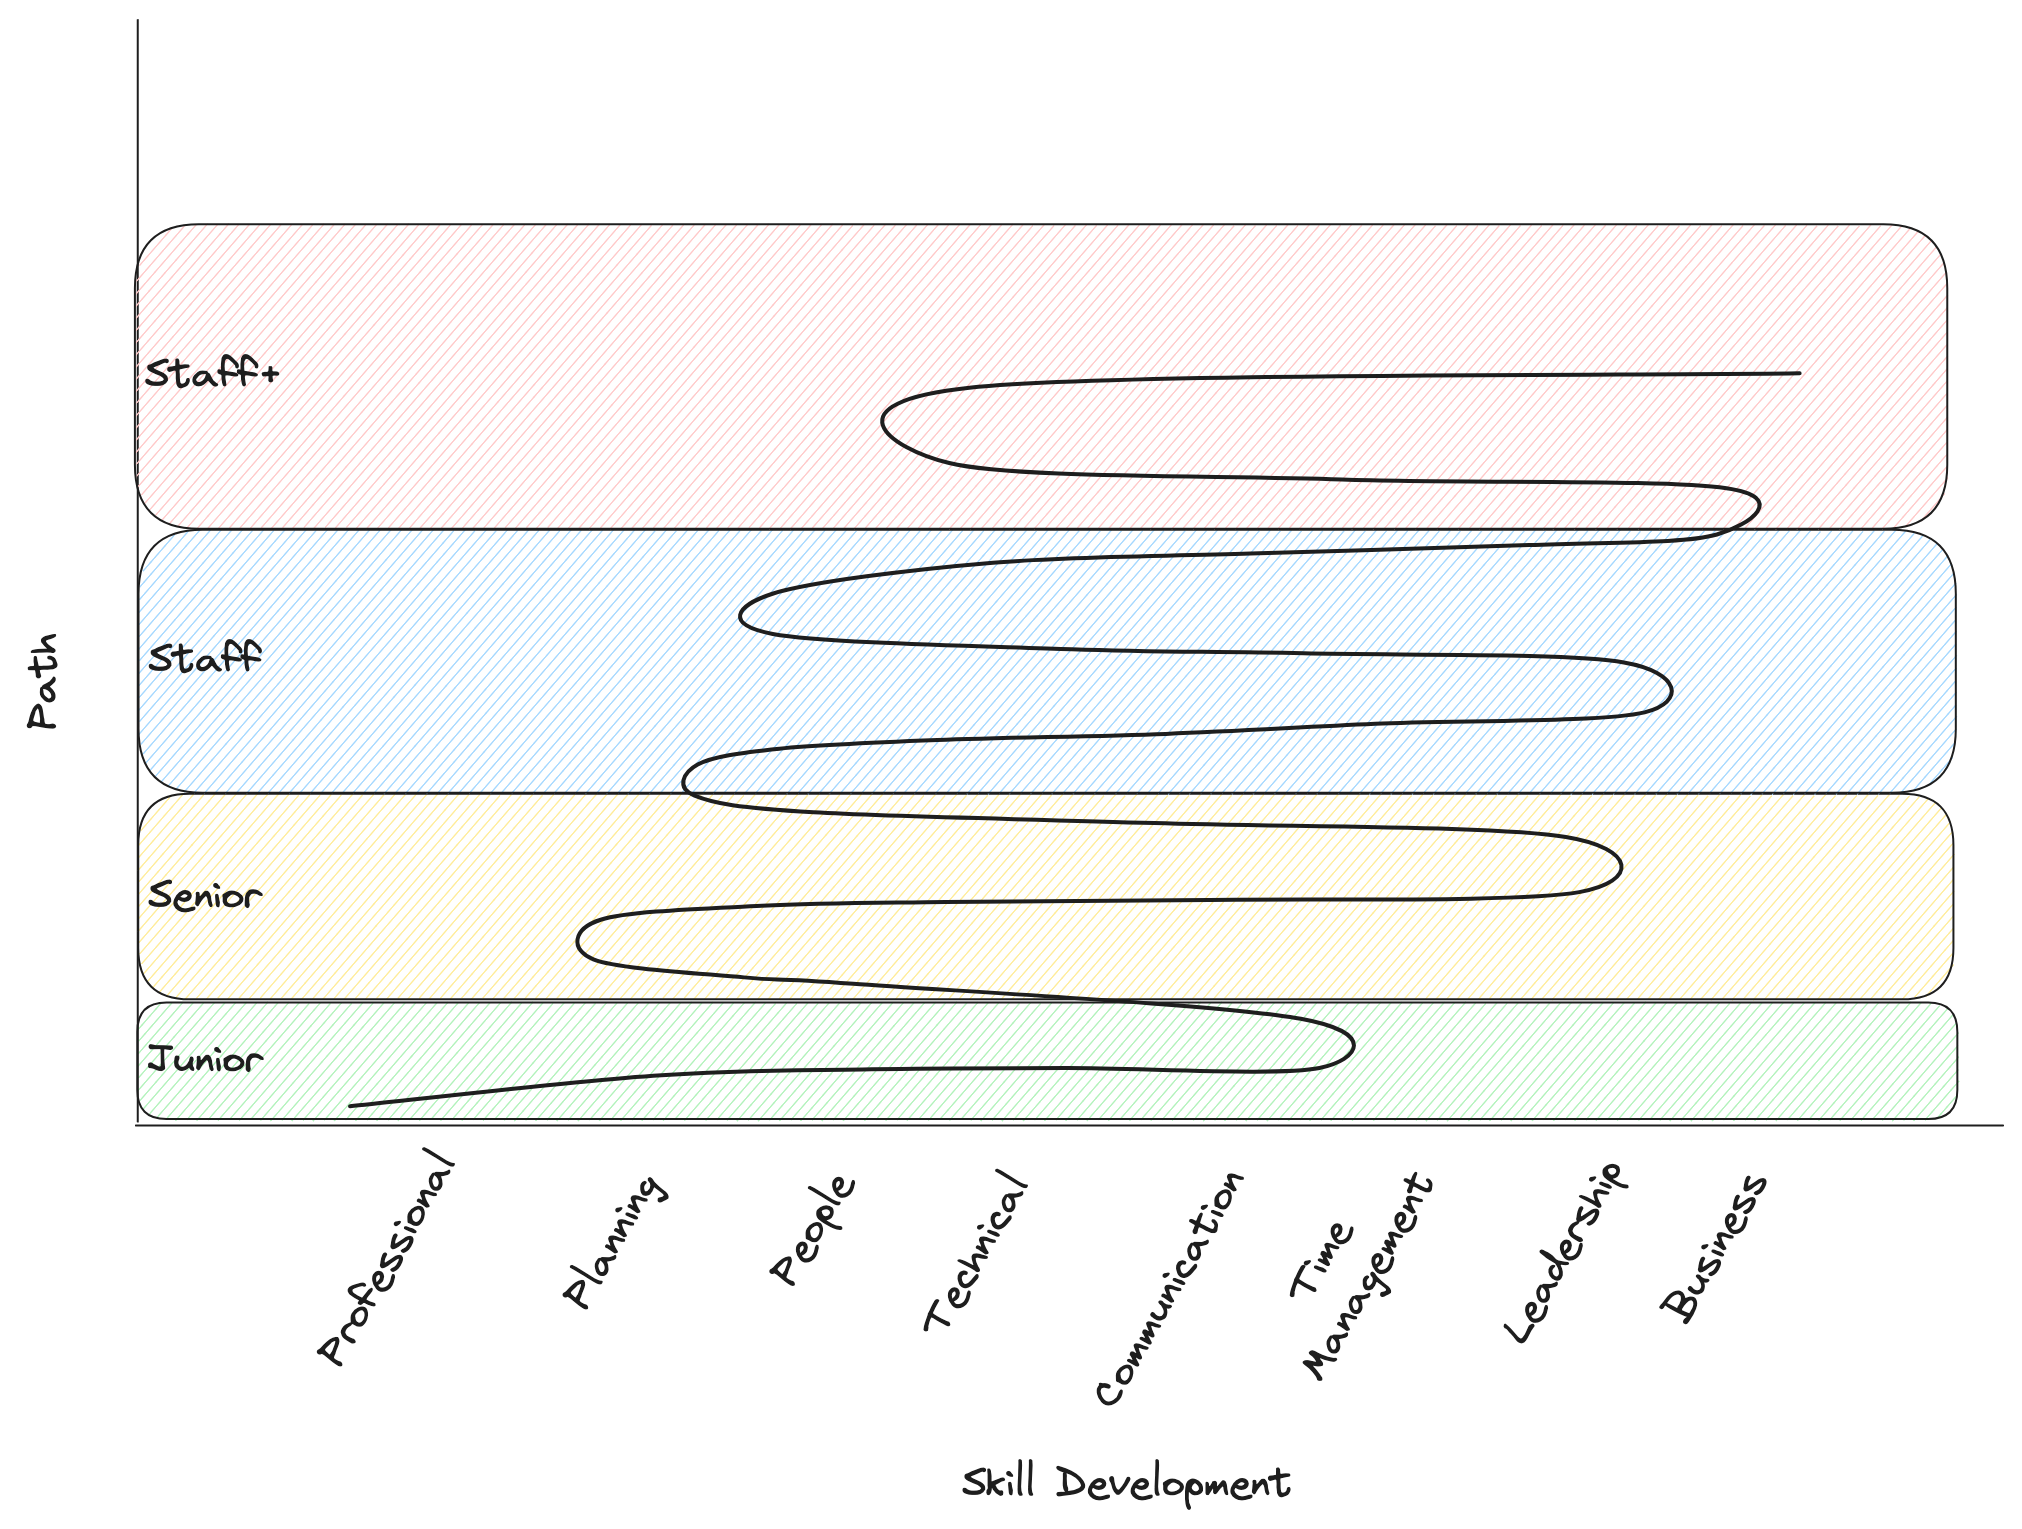
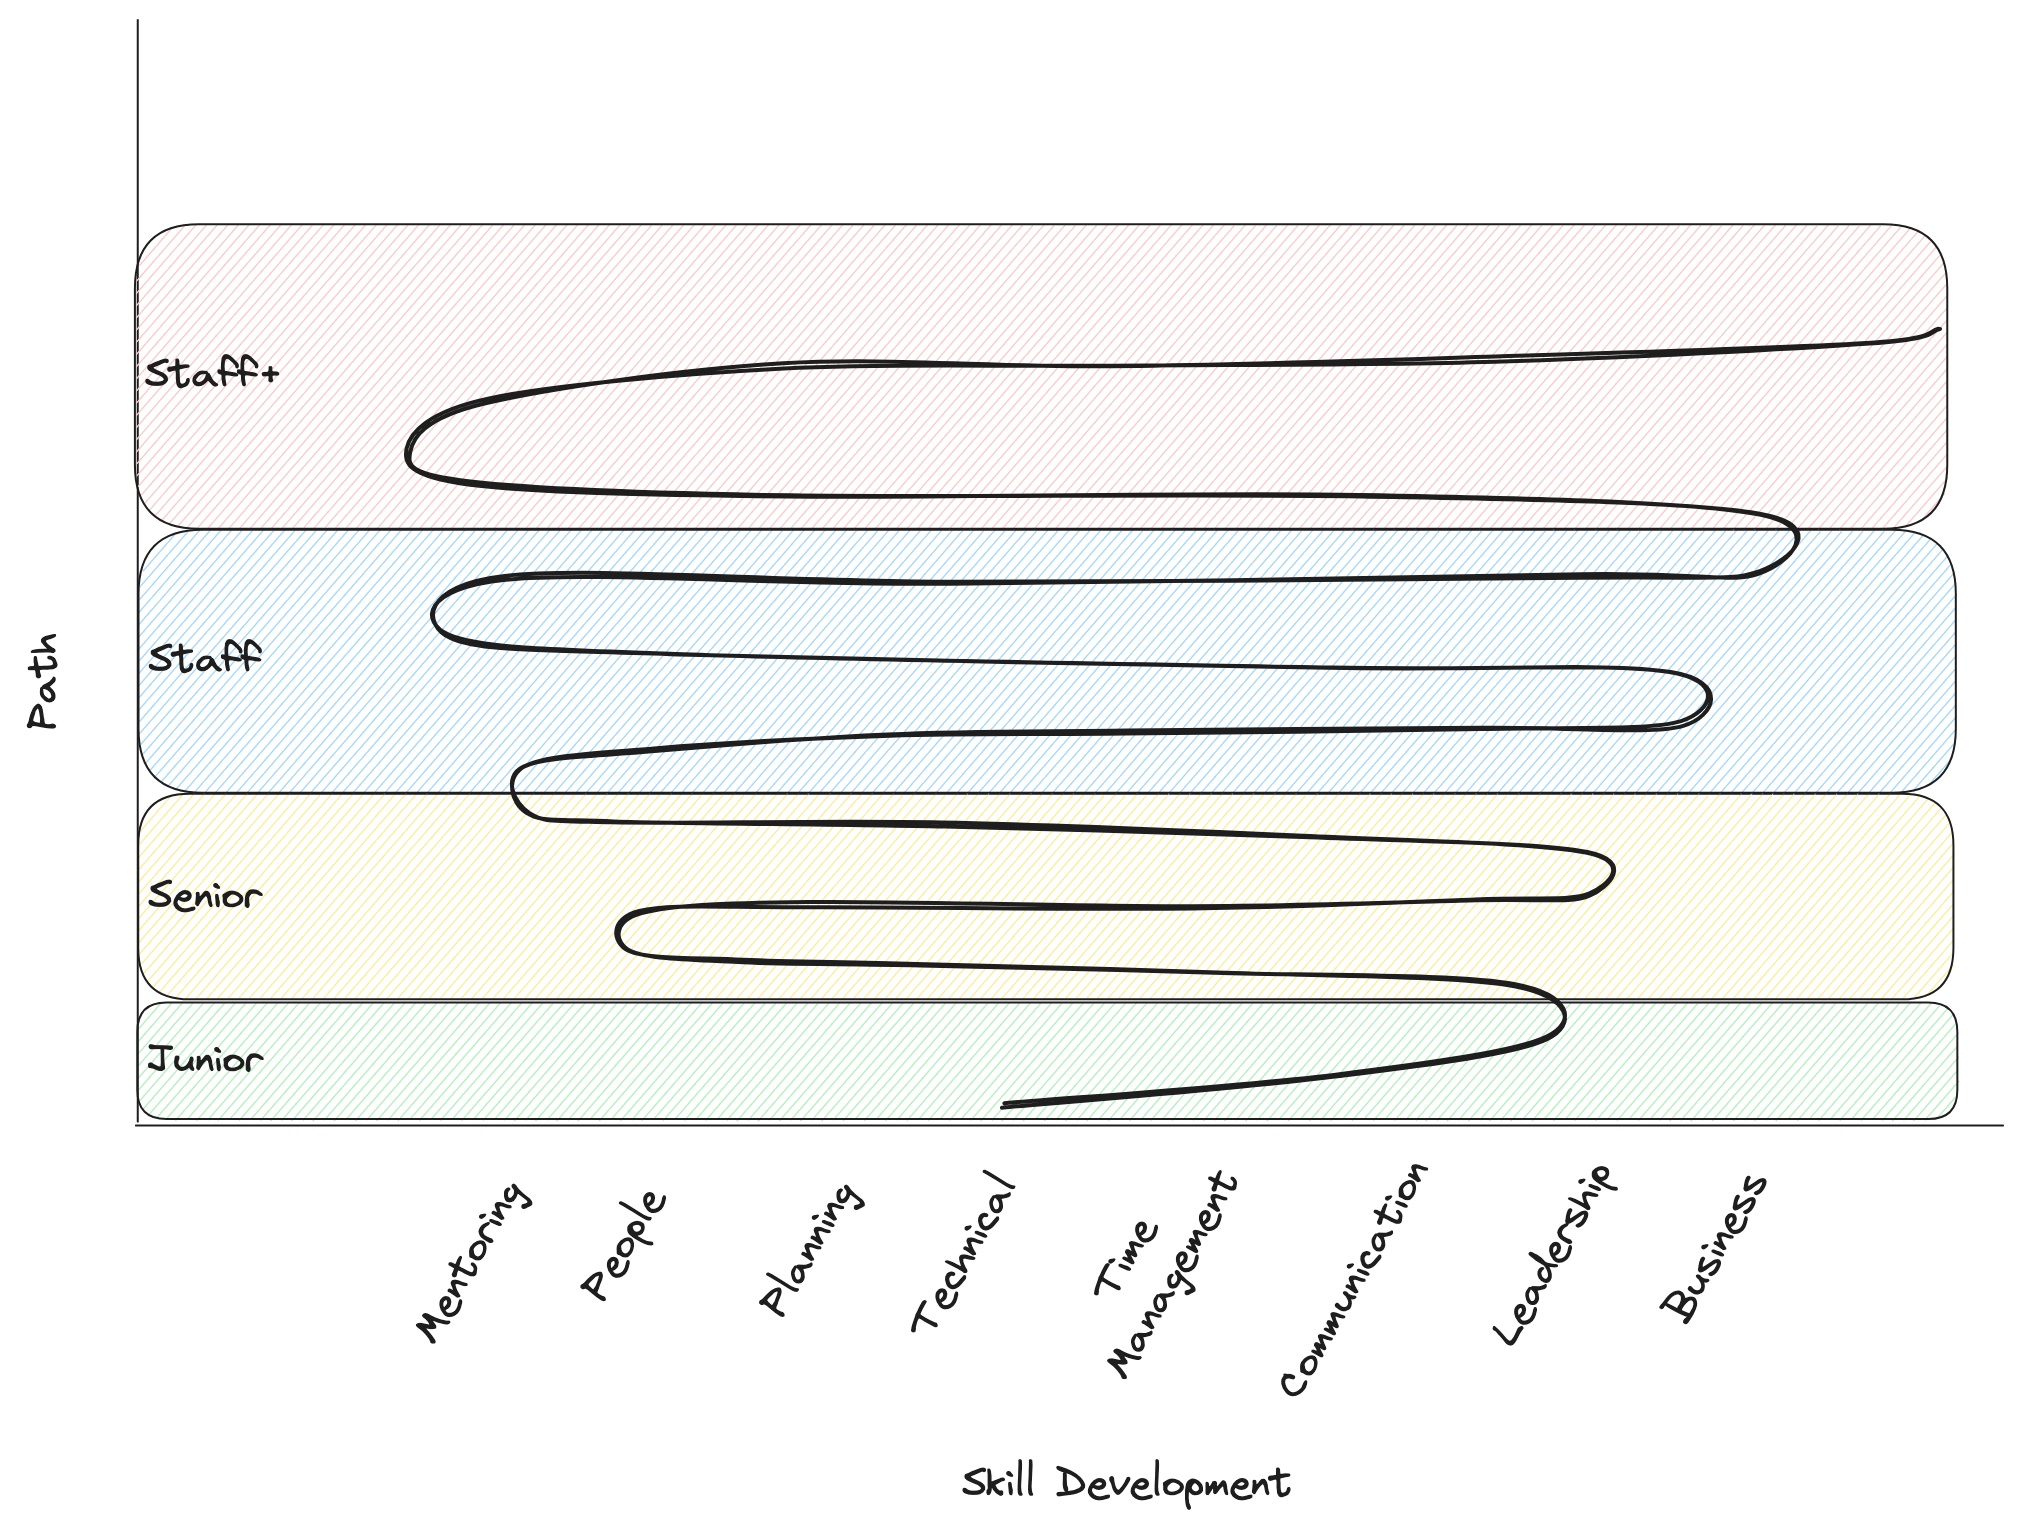
Inverted

diff --git a/content/blog/technical-growth-and-switchbacks.md b/content/blog/technical-growth-and-switchbacks.md
@@ -73,15 +73,15 @@ I hope to add to the discussion how I've started to view the skill development r
 
 As [Sahil Bloom](https://www.sahilbloom.com/) talks about, people often look for opportunities without investing time in skill development. If you find a great opportunity but haven't developed the proper skills to take it on, you'll miss out.
 
-To be clear, you don't need to have mastered every skill required to take on a new challenge. Challenge is how we grow! You have to find the opporutnity that matches Flow sate: just beyond your current skills, but not so far that you're likely to fail.
+To be clear, you don't need to have mastered every skill required to take on a new challenge. Challenge is how we grow! You have to find the opportunity that matches Flow sate: just beyond your current skills, but not so far that you're likely to fail.
 
 To be prepared for those opportunities, you must develop your skill sets along the way.
 
-The new "view" I described earlier was understanding that this skill development looks a lot like switchbacks on a trail. Switchbacks are a way to climb a mountain that involves the trail going "back and forth" up the mountain rather than a direct line (sounds like growth, doesn't it?). As you hike the switchbacks, you'll often pass the same scenery over and over again but gain new perspectives as you climb higher and higher.
+The new "view" I described earlier was understanding that this skill development looks a lot like switchbacks on a trail. Switchbacks are a way to climb a mountain that involves the trail going "back and forth" up the mountain rather than a direct line (sounds like growth, doesn't it?). In this context, the switchbacks are "upside down" - instead of getting smaller as you climb higher, they only get broader.
 
-Eventually, switchbacks will naturally move to a new area or section of the mountain. You'll keep doing the back-and-forth pattern but cover different terrain. It won't happen all at once, but you'll suddenly realize, "Oh, this is different now."
+As you hike the switchbacks, you'll often pass the same scenery over and over again but gain new perspectives as you climb higher and higher Eventually, switchbacks will naturally move to a new area or section of the mountain. You'll keep doing the back-and-forth pattern but cover different terrain. It won't happen all at once, but you'll suddenly realize, "Oh, this is different now."
 
-It seemed to me this is how we tend to develop our skills. At each level, we will both broaden our skills through acquisition (learning new leadership, business strategy, or people skills, etc.) while also deepening our existing skills through new perspectives and repetition (learning the nuances of communication, building better judgment of technical decisions, etc.). We gradually climb higher and higher, even though the incline itself is (usually) not so steep.
+It seemed to me this is how we tend to develop our skills: at each level, we will both broaden our skills through acquisition (learning new leadership, business strategy, or people skills, etc.) while also deepening our existing skills through new perspectives and repetition (learning the nuances of communication, building better judgment of technical decisions, etc.). We gradually climb higher and higher, even though the incline itself is (usually) not so steep. It might look something like this.
 
 ![](../assets/career-path-skills.png)
 
